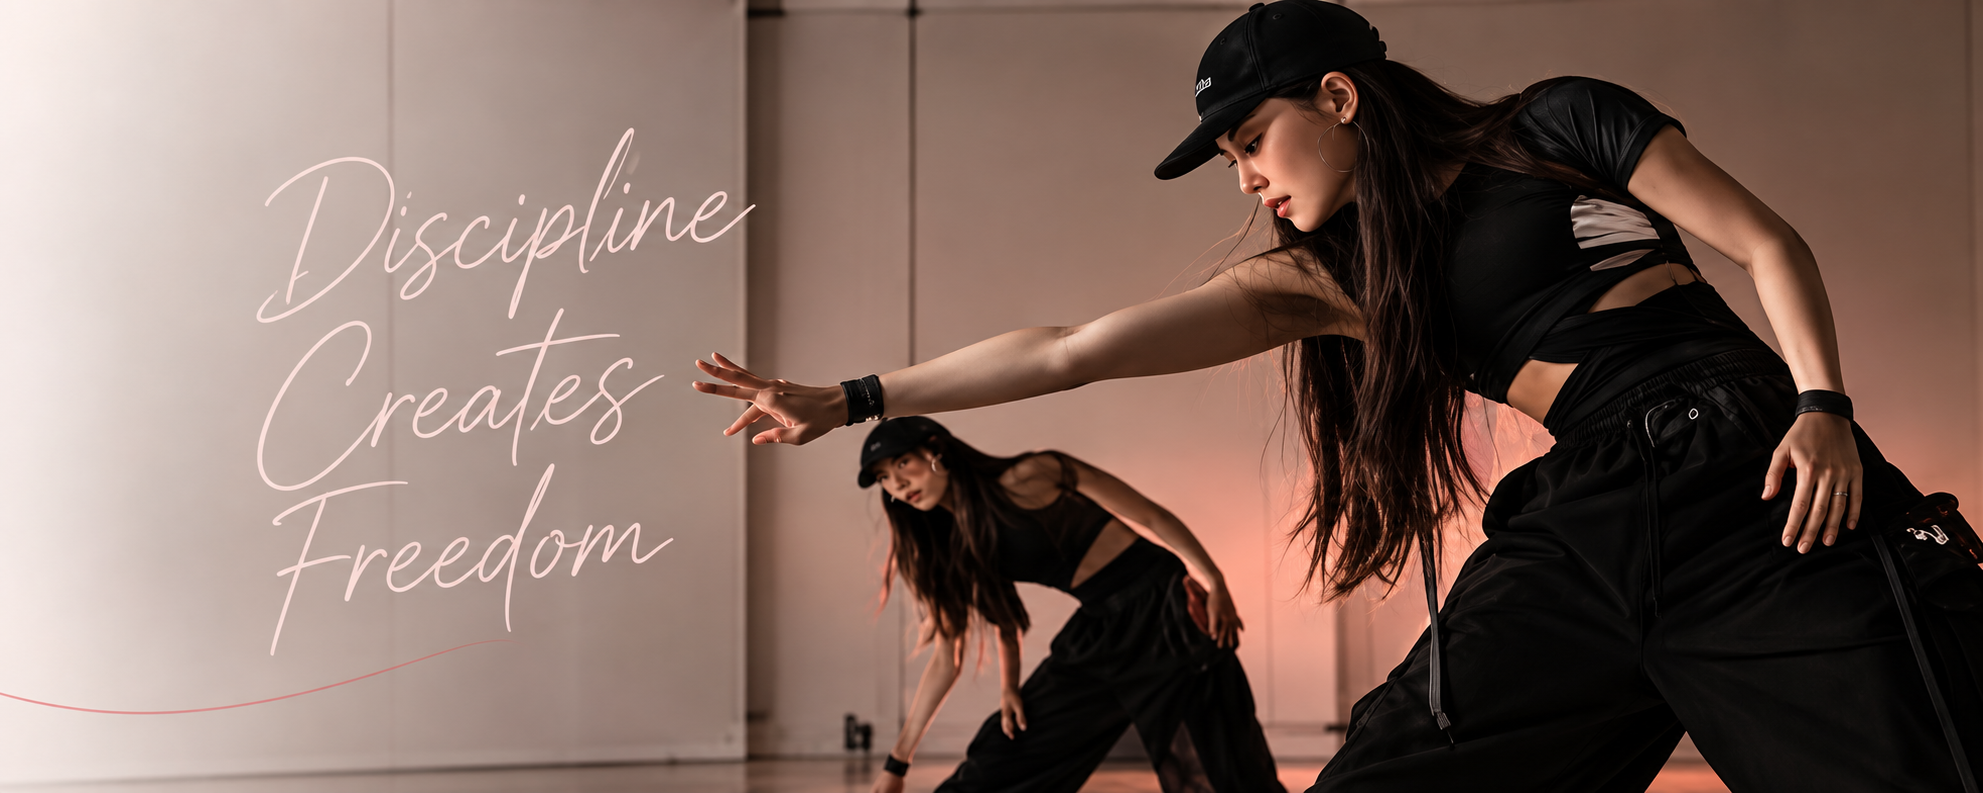
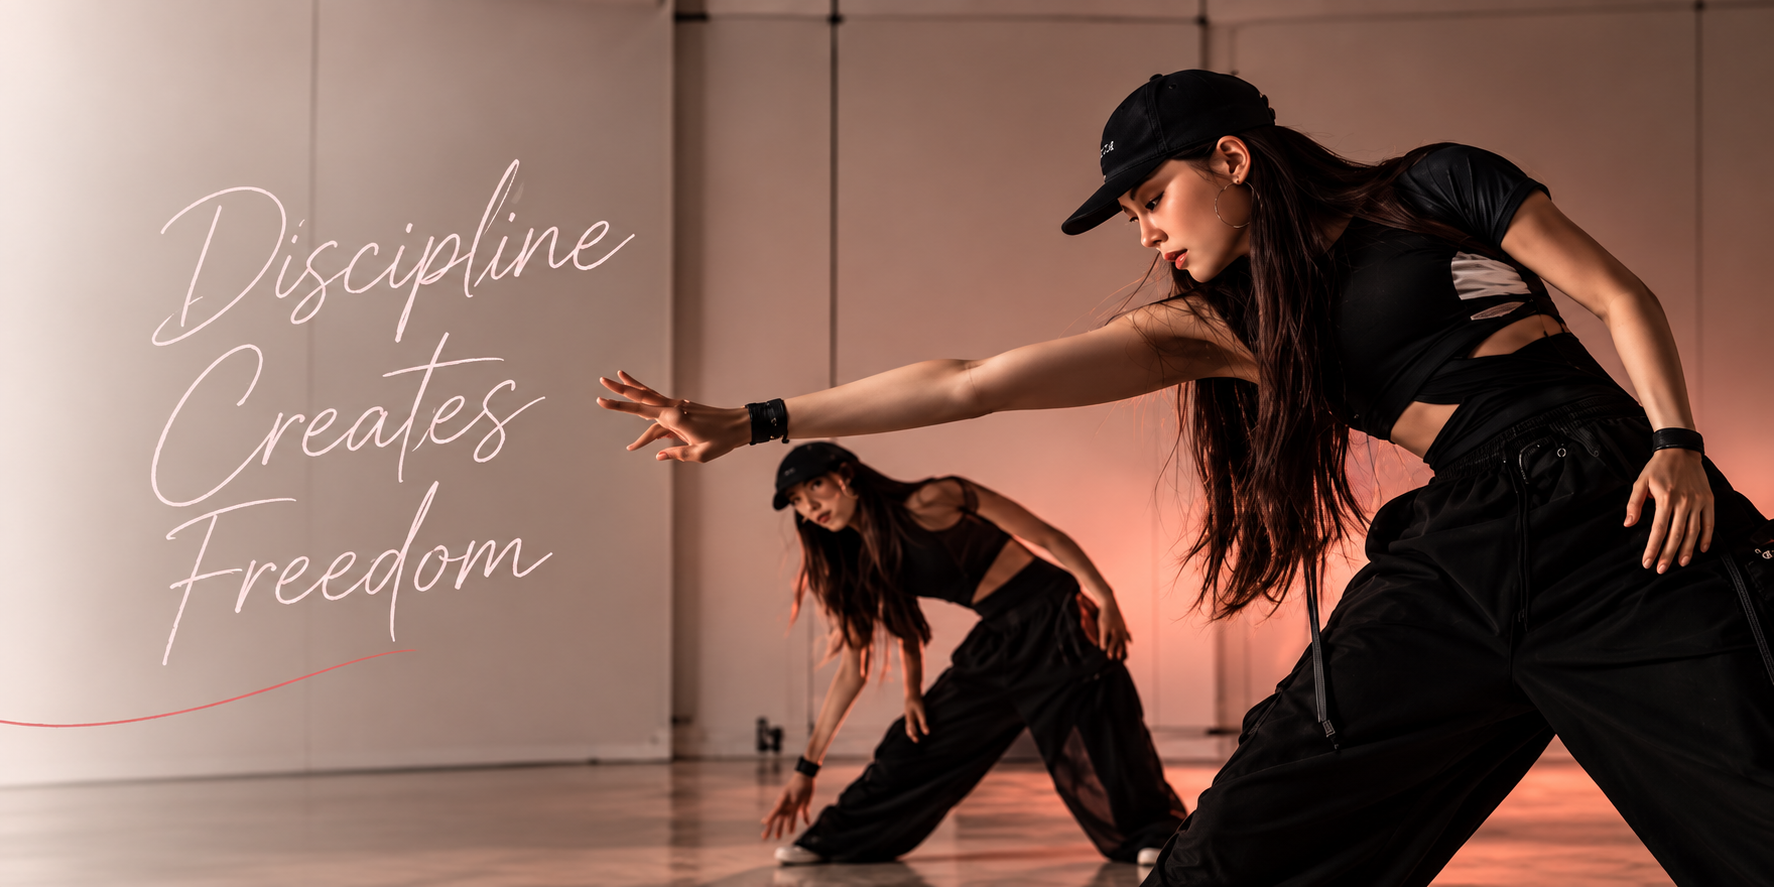
update clsses and schedule page images

diff --git a/classes.css b/classes.css
@@ -73,9 +73,11 @@ body {
 }
 
 .classes-hero-image {
-    height: 230px;
+    width: 100%;
+    height: 350px;
     position: relative;
     overflow: hidden;
+    border-radius: 20px;
 }
 
 .classes-hero-image img {

diff --git a/schedule.css b/schedule.css
@@ -73,9 +73,11 @@ body {
 }
 
 .schedule-image {
-    height: 230px;
+    width: 100%;
+    height: 350px;
     position: relative;
     overflow: hidden;
+    border-radius: 20px;
 }
 
 .schedule-image img {
